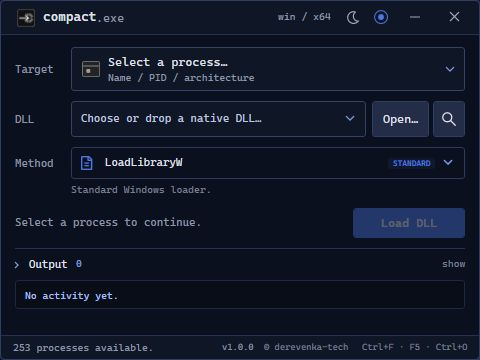
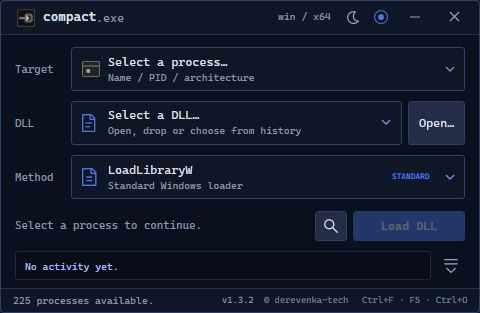
Release 1.3.2 with content-sized window and updated screenshot

diff --git a/Views/MainWindow.xaml b/Views/MainWindow.xaml
@@ -3,7 +3,7 @@
  xmlns:x="http://schemas.microsoft.com/winfx/2006/xaml"
  xmlns:shell="clr-namespace:System.Windows.Shell;assembly=PresentationFramework"
  xmlns:local="clr-namespace:CompactLoader"
- Title="Compact Loader" Icon="/CompactLoader;component/Assets/app.ico" Width="480" Height="360" SizeToContent="Manual"
+ Title="Compact Loader" Icon="/CompactLoader;component/Assets/app.ico" Width="480" SizeToContent="Height" MaxHeight="{Binding Source={x:Static SystemParameters.WorkArea}, Path=Height}"
  Background="{DynamicResource AppBackground}" FontFamily="{StaticResource UiFont}" FontSize="12" UseLayoutRounding="True"
  WindowStyle="None" ResizeMode="CanMinimize" WindowStartupLocation="CenterScreen" Closing="WindowClosing">
  <Window.CommandBindings>

diff --git a/.github/release-notes/v1.3.2.md b/.github/release-notes/v1.3.2.md
@@ -1,0 +1,7 @@
+Compact Loader 1.3.2.
+
+- Высота главного окна теперь определяется содержимым: убрано пустое место под строкой журнала после переноса кнопки Output.
+- Высота ограничена рабочей областью экрана; при нехватке места остаётся прокрутка содержимого.
+- Обновлён скриншот приложения в README.
+
+Для запуска нужен .NET 10 Desktop Runtime соответствующей архитектуры (x64 или x86). Начиная с версии 1.3.0 обновление доступно через кнопку рядом с переключателем темы. Ограничения методов загрузки описаны в README.
